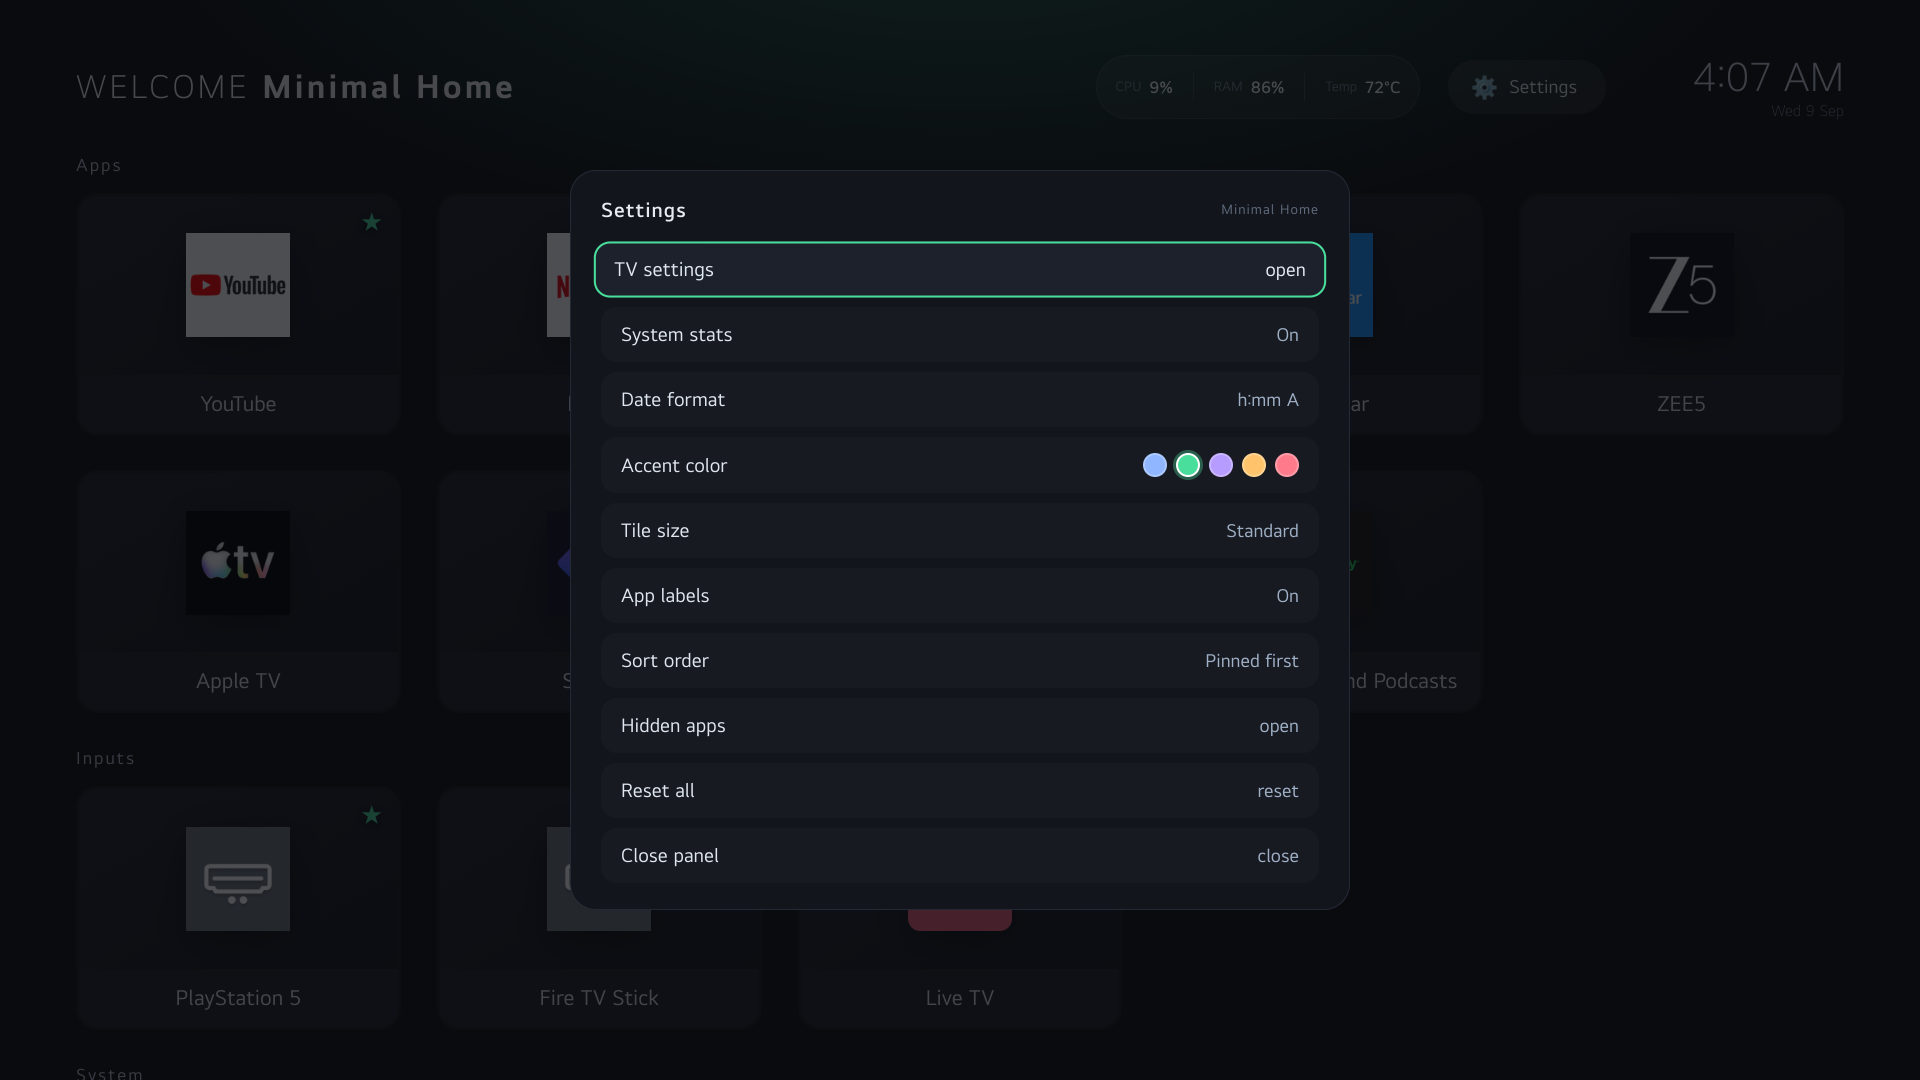
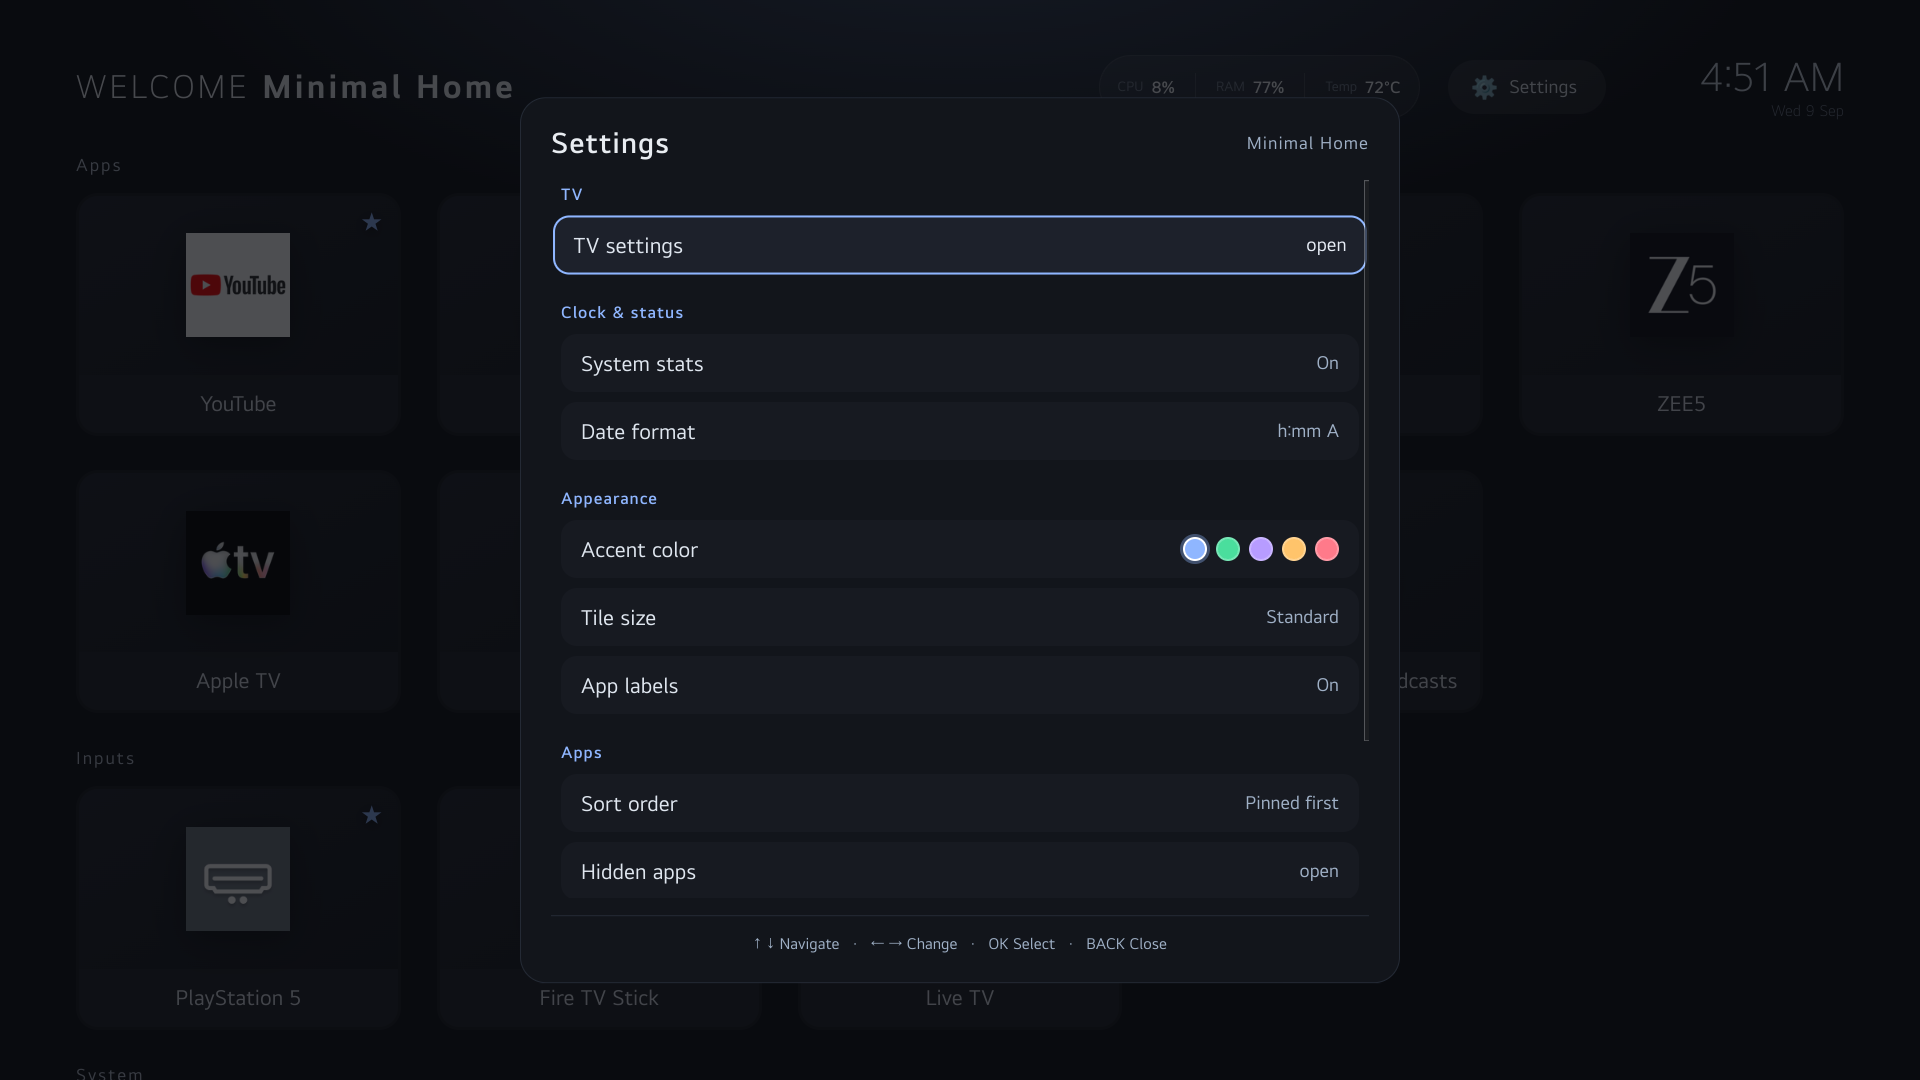
launcher: center loading state and organize settings

diff --git a/launcher-app/index.html b/launcher-app/index.html
@@ -303,6 +303,55 @@ h1 b {
   flex-direction: column;
   gap: 10px;
 }
+#settingsPanel {
+  display: flex;
+  flex-direction: column;
+  width: min(880px, 92vw);
+  overflow: hidden;
+}
+#settingsPanel .panel-head {
+  flex-shrink: 0;
+  font-size: 30px;
+}
+#settingsPanel .panel-head small {
+  font-size: 18px;
+  color: #9fb0c6;
+}
+#settingsRows {
+  min-height: 0;
+  overflow-y: auto;
+  padding: 4px 10px 10px;
+}
+#settingsRows > * {
+  flex-shrink: 0;
+}
+.settings-group {
+  margin: 18px 0 2px;
+  font-size: 17px;
+  font-weight: 600;
+  letter-spacing: 1px;
+  color: var(--accent);
+}
+.settings-group:first-child {
+  margin-top: 0;
+}
+#settingsRows .srow {
+  font-size: 22px;
+}
+#settingsRows .val {
+  flex-shrink: 0;
+  text-align: right;
+}
+.settings-hint {
+  flex-shrink: 0;
+  margin-top: 18px;
+  padding-top: 16px;
+  border-top: 1px solid #242a35;
+  font-size: 16px;
+  line-height: 1.5;
+  text-align: center;
+  color: #9fb0c6;
+}
 .srow {
   display: flex;
   align-items: center;
@@ -405,22 +454,32 @@ h1 b {
 }
 
 #tileStatus {
+  position: fixed;
+  left: 50%;
+  top: 50%;
+  transform: translate(-50%, -50%);
+  width: calc(100% - 152px);
+  flex-direction: column;
   align-items: center;
-  gap: 20px;
+  justify-content: center;
+  gap: 28px;
   padding: 24px 0;
-  font-size: 24px;
-  color: #c3ccd8;
+  font-size: 38px;
+  line-height: 1.4;
+  text-align: center;
+  color: #e8ecf1;
 }
 #tileSpinner {
-  width: 32px;
-  height: 32px;
-  border: 3px solid rgba(255, 255, 255, 0.2);
+  width: 48px;
+  height: 48px;
+  border: 4px solid rgba(255, 255, 255, 0.2);
   border-top-color: var(--accent);
   border-radius: 50%;
   animation: tile-spin 1s linear infinite;
 }
 #retryTiles {
   padding: 12px 24px;
+  font-size: 24px;
 }
 @keyframes tile-spin {
   to {
@@ -464,6 +523,7 @@ h1 b {
 <div id="settingsPanel" class="panel">
   <div class="panel-head">Settings <small id="panelSub">Minimal Home</small></div>
   <div id="settingsRows" class="rowset"></div>
+  <div class="settings-hint">&#8593; &#8595; Navigate &nbsp; &#183; &nbsp; &#8592; &#8594; Change &nbsp; &#183; &nbsp; OK Select &nbsp; &#183; &nbsp; BACK Close</div>
 </div>
 <div id="optionsPanel" class="panel opt">
   <div class="panel-head">Options</div>
@@ -1153,6 +1213,7 @@ window.MH_CONFIG = {"version": "v1.4.0", "system": ["com.webos.app.discovery", "
   var SETTING_ROWS = [
     {
       key: "tvsettings",
+      group: "TV",
       label: "TV settings",
       type: "action",
       fmt: function () {
@@ -1161,6 +1222,7 @@ window.MH_CONFIG = {"version": "v1.4.0", "system": ["com.webos.app.discovery", "
     },
     {
       key: "showSystemStats",
+      group: "Clock & status",
       label: "System stats",
       type: "toggle",
       fmt: function (v) {
@@ -1176,7 +1238,12 @@ window.MH_CONFIG = {"version": "v1.4.0", "system": ["com.webos.app.discovery", "
         return v;
       }
     },
-    { key: "accent", label: "Accent color", type: "accent" },
+    {
+      key: "accent",
+      group: "Appearance",
+      label: "Accent color",
+      type: "accent"
+    },
     {
       key: "tileSize",
       label: "Tile size",
@@ -1196,6 +1263,7 @@ window.MH_CONFIG = {"version": "v1.4.0", "system": ["com.webos.app.discovery", "
     },
     {
       key: "sort",
+      group: "Apps",
       label: "Sort order",
       type: "choice",
       opts: M.choices.sort,
@@ -1217,7 +1285,8 @@ window.MH_CONFIG = {"version": "v1.4.0", "system": ["com.webos.app.discovery", "
     },
     {
       key: "reset",
-      label: "Reset all",
+      group: "Preferences",
+      label: "Reset preferences",
       type: "action",
       fmt: function () {
         return "reset";
@@ -1338,6 +1407,9 @@ window.MH_CONFIG = {"version": "v1.4.0", "system": ["com.webos.app.discovery", "
     for (i = 0; i < SETTING_ROWS.length; i++) {
       r = SETTING_ROWS[i];
       key = PREFS[r.key];
+      if (r.group) {
+        html.push('<h2 class="settings-group">' + esc(r.group) + "</h2>");
+      }
       if (r.type === "accent") {
         var dots = accentDots();
         html.push(

diff --git a/launcher-app/src/launcher.css b/launcher-app/src/launcher.css
@@ -296,6 +296,55 @@ h1 b {
   flex-direction: column;
   gap: 10px;
 }
+#settingsPanel {
+  display: flex;
+  flex-direction: column;
+  width: min(880px, 92vw);
+  overflow: hidden;
+}
+#settingsPanel .panel-head {
+  flex-shrink: 0;
+  font-size: 30px;
+}
+#settingsPanel .panel-head small {
+  font-size: 18px;
+  color: #9fb0c6;
+}
+#settingsRows {
+  min-height: 0;
+  overflow-y: auto;
+  padding: 4px 10px 10px;
+}
+#settingsRows > * {
+  flex-shrink: 0;
+}
+.settings-group {
+  margin: 18px 0 2px;
+  font-size: 17px;
+  font-weight: 600;
+  letter-spacing: 1px;
+  color: var(--accent);
+}
+.settings-group:first-child {
+  margin-top: 0;
+}
+#settingsRows .srow {
+  font-size: 22px;
+}
+#settingsRows .val {
+  flex-shrink: 0;
+  text-align: right;
+}
+.settings-hint {
+  flex-shrink: 0;
+  margin-top: 18px;
+  padding-top: 16px;
+  border-top: 1px solid #242a35;
+  font-size: 16px;
+  line-height: 1.5;
+  text-align: center;
+  color: #9fb0c6;
+}
 .srow {
   display: flex;
   align-items: center;
@@ -398,22 +447,32 @@ h1 b {
 }
 
 #tileStatus {
+  position: fixed;
+  left: 50%;
+  top: 50%;
+  transform: translate(-50%, -50%);
+  width: calc(100% - 152px);
+  flex-direction: column;
   align-items: center;
-  gap: 20px;
+  justify-content: center;
+  gap: 28px;
   padding: 24px 0;
-  font-size: 24px;
-  color: #c3ccd8;
+  font-size: 38px;
+  line-height: 1.4;
+  text-align: center;
+  color: #e8ecf1;
 }
 #tileSpinner {
-  width: 32px;
-  height: 32px;
-  border: 3px solid rgba(255, 255, 255, 0.2);
+  width: 48px;
+  height: 48px;
+  border: 4px solid rgba(255, 255, 255, 0.2);
   border-top-color: var(--accent);
   border-radius: 50%;
   animation: tile-spin 1s linear infinite;
 }
 #retryTiles {
   padding: 12px 24px;
+  font-size: 24px;
 }
 @keyframes tile-spin {
   to {

diff --git a/launcher-app/src/launcher.js b/launcher-app/src/launcher.js
@@ -500,6 +500,7 @@
   var SETTING_ROWS = [
     {
       key: "tvsettings",
+      group: "TV",
       label: "TV settings",
       type: "action",
       fmt: function () {
@@ -508,6 +509,7 @@
     },
     {
       key: "showSystemStats",
+      group: "Clock & status",
       label: "System stats",
       type: "toggle",
       fmt: function (v) {
@@ -523,7 +525,12 @@
         return v;
       }
     },
-    { key: "accent", label: "Accent color", type: "accent" },
+    {
+      key: "accent",
+      group: "Appearance",
+      label: "Accent color",
+      type: "accent"
+    },
     {
       key: "tileSize",
       label: "Tile size",
@@ -543,6 +550,7 @@
     },
     {
       key: "sort",
+      group: "Apps",
       label: "Sort order",
       type: "choice",
       opts: M.choices.sort,
@@ -564,7 +572,8 @@
     },
     {
       key: "reset",
-      label: "Reset all",
+      group: "Preferences",
+      label: "Reset preferences",
       type: "action",
       fmt: function () {
         return "reset";
@@ -685,6 +694,9 @@
     for (i = 0; i < SETTING_ROWS.length; i++) {
       r = SETTING_ROWS[i];
       key = PREFS[r.key];
+      if (r.group) {
+        html.push('<h2 class="settings-group">' + esc(r.group) + "</h2>");
+      }
       if (r.type === "accent") {
         var dots = accentDots();
         html.push(

diff --git a/launcher-app/src/index.html b/launcher-app/src/index.html
@@ -37,6 +37,7 @@ __SYS__
 <div id="settingsPanel" class="panel">
   <div class="panel-head">Settings <small id="panelSub">Minimal Home</small></div>
   <div id="settingsRows" class="rowset"></div>
+  <div class="settings-hint">&#8593; &#8595; Navigate &nbsp; &#183; &nbsp; &#8592; &#8594; Change &nbsp; &#183; &nbsp; OK Select &nbsp; &#183; &nbsp; BACK Close</div>
 </div>
 <div id="optionsPanel" class="panel opt">
   <div class="panel-head">Options</div>
